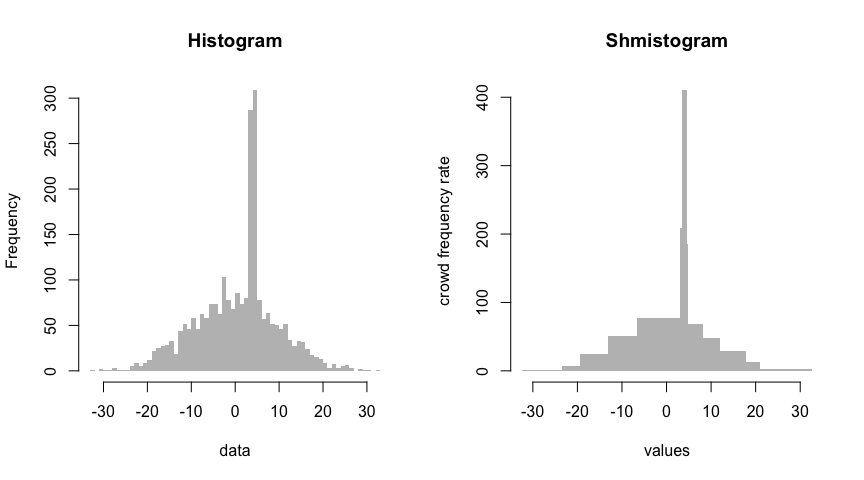
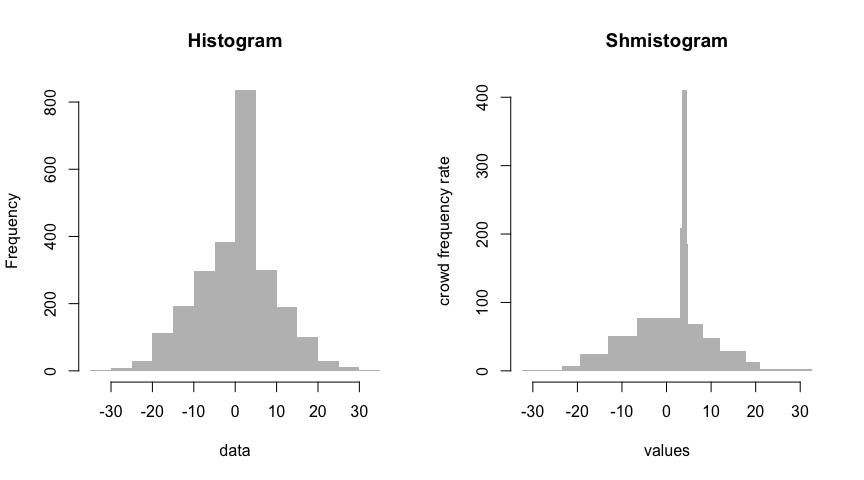
catch up documentation

diff --git a/setup.py b/setup.py
@@ -1,8 +1,10 @@
 from setuptools import setup
 
+exec(open("shmistogram/version.py").read())
+
 setup(
     name='shmistogram',
-    version='0.1dev',
+    version=__version__,
     packages=['shmistogram'],
     license='See LICENSE.txt',
 )

diff --git a/shmistogram/__init__.py b/shmistogram/__init__.py
@@ -5,6 +5,7 @@ import pdb
 
 from . import agglomerate as agg
 from . import det
+from .version import __version__
 
 class SeriesTable(object):
     def __init__(self, series, compute_empirical_p=False):

diff --git a/shmistogram/version.py b/shmistogram/version.py
@@ -1,0 +1,2 @@
+__version__='0.2.0'
+

diff --git a/README.md b/README.md
@@ -26,7 +26,7 @@ Examples
 
 ### Mixed data types
 
-A shmistogram highlights point masses that may occur in a continuous variable, explicitly decomposing the distribution into a mixture of a multinomial and a piecewise uniform distribution. Such point masses are quite common:
+A shmistogram emphasizes point masses that may occur in a continuous variable, explicitly decomposing the distribution into a mixture of a multinomial and a piecewise uniform distribution. Such point masses are quite common:
 
 -   inconsistent rounding any continuous variable can introduce a mixture of point masses and relatively continuous observations
 -   "age of earning first driver's license" plausibly has structural modes at the legal minimum (which may vary by state) and otherwise vary continuously
@@ -45,11 +45,13 @@ shmistogram::shmistogram(data)
 
 ![](demo/demo_files/figure-markdown_github/unnamed-chunk-1-1.png)
 
-The histogram obscures the point masses somewhat. By contrast, the shmistogram highlights the modes using red line segments, and also visualizes the fraction of the data that is missing.
+The histogram obscures the point masses somewhat. By contrast, the shmistogram uses red line segments to emphasize them. The legend bar at the top shows the relative portions of the data that compose the point masses (the "loners"), the relatively continous portion (the "crowd") and the missing values.
+
+A regularization term in the shmistogram binning algorithm (see [details](#Details)) limits the number of shmistogram bins, evidently giving it an advantage over default histogram binning when the target is a uniform density.
 
 ### Variable bin width
 
-The shmistogram's agglomerative binning produces a parsimonious density estimate with adaptive bin width:
+The shmistogram's adaptive bin width leads to a higher-fidelity representation of complicated distributions without substantially increasing the number of bins:
 
 ``` r
 set.seed(0)
@@ -58,27 +60,24 @@ data = c(
     rnorm(500, mean = 4, sd = 0.5)
 )
 par(mfrow = c(1, 2))
-hist(data, 50, border=NA, col='grey', main = 'Histogram')
+hist(data, border=NA, col='grey', main = 'Histogram')
 shmistogram::shmistogram(data)
 ```
 
 ![](demo/demo_files/figure-markdown_github/unnamed-chunk-2-1.png)
 
-## Future work
+## Details
 
-Our binning algorithm is based on several
-ad hoc heuristics. It is neither particularly
-scalable nor statistically efficient. In future
-work we'll likely replace this with 
-something like
+The default binning algorithm uses a [binary density estimation tree](shmistogram/det/__init__.py) to iteratively split the data into smaller bins. The split location (within a bin/leaf) maximizes the improvement in the deviance (i.e. in-sample negative log likelihood) subject to a minimum-points-per-leaf constraint. This minimum currently defaults to 3. 
+
+We choose the bin to split on as the bin for which splitting leads to the greatest improvement in deviance. Splits proceed as long as the deviance improvement exceeds the number of leaves. This approach is inspired by the Akaike information criterion (AIC), although this may be an abuse of the criterion in the sense that we're using it as part of a greedy iterative procedure instead of using it to compare fully-formed models. 
+
+For more about density estimation trees, see
 - [density estimation trees](https://mlpack.org/papers/det.pdf) 
 such as [this](https://gitlab.cern.ch/landerli/density-estimation-trees) or
 - [distribution element trees](https://arxiv.org/pdf/1610.00345.pdf) such as 
-[detpack](https://github.com/cran/detpack/blob/master/R/det1.R). Specifically, 
-calling `det1(x, mode=1)` on data x produces a variable bin-width histogram.
-
+[detpack](https://github.com/cran/detpack/blob/master/R/det1.R). Interestingly, calling `det1(x, mode=1)` on data x also produces a variable bin-width histogram.
 
 ## Disclaimer
 
-This repo is young, currently has no unit tests, and should be expected to change
-substantially. Use with caution.
+This repo is young, currently has no unit tests, and should be expected to change substantially. Use with caution.

diff --git a/doc/readme_details.md b/doc/readme_details.md
@@ -1,19 +1,16 @@
 
-## Future work
+## Details
 
-Our binning algorithm is based on several
-ad hoc heuristics. It is neither particularly
-scalable nor statistically efficient. In future
-work we'll likely replace this with 
-something like
+The default binning algorithm uses a [binary density estimation tree](shmistogram/det/__init__.py) to iteratively split the data into smaller bins. The split location (within a bin/leaf) maximizes the improvement in the deviance (i.e. in-sample negative log likelihood) subject to a minimum-points-per-leaf constraint. This minimum currently defaults to 3. 
+
+We choose the bin to split on as the bin for which splitting leads to the greatest improvement in deviance. Splits proceed as long as the deviance improvement exceeds the number of leaves. This approach is inspired by the Akaike information criterion (AIC), although this may be an abuse of the criterion in the sense that we're using it as part of a greedy iterative procedure instead of using it to compare fully-formed models. 
+
+For more about density estimation trees, see
 - [density estimation trees](https://mlpack.org/papers/det.pdf) 
 such as [this](https://gitlab.cern.ch/landerli/density-estimation-trees) or
 - [distribution element trees](https://arxiv.org/pdf/1610.00345.pdf) such as 
-[detpack](https://github.com/cran/detpack/blob/master/R/det1.R). Specifically, 
-calling `det1(x, mode=1)` on data x produces a variable bin-width histogram.
-
+[detpack](https://github.com/cran/detpack/blob/master/R/det1.R). Interestingly, calling `det1(x, mode=1)` on data x also produces a variable bin-width histogram.
 
 ## Disclaimer
 
-This repo is young, currently has no unit tests, and should be expected to change
-substantially. Use with caution.
+This repo is young, currently has no unit tests, and should be expected to change substantially. Use with caution.
